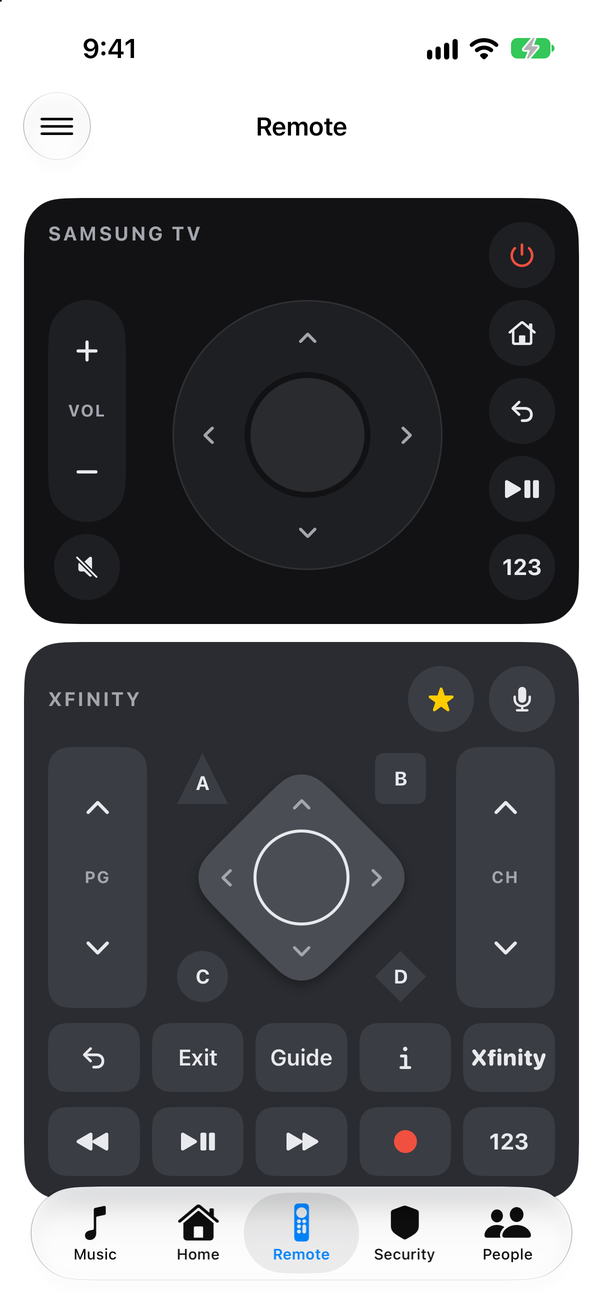
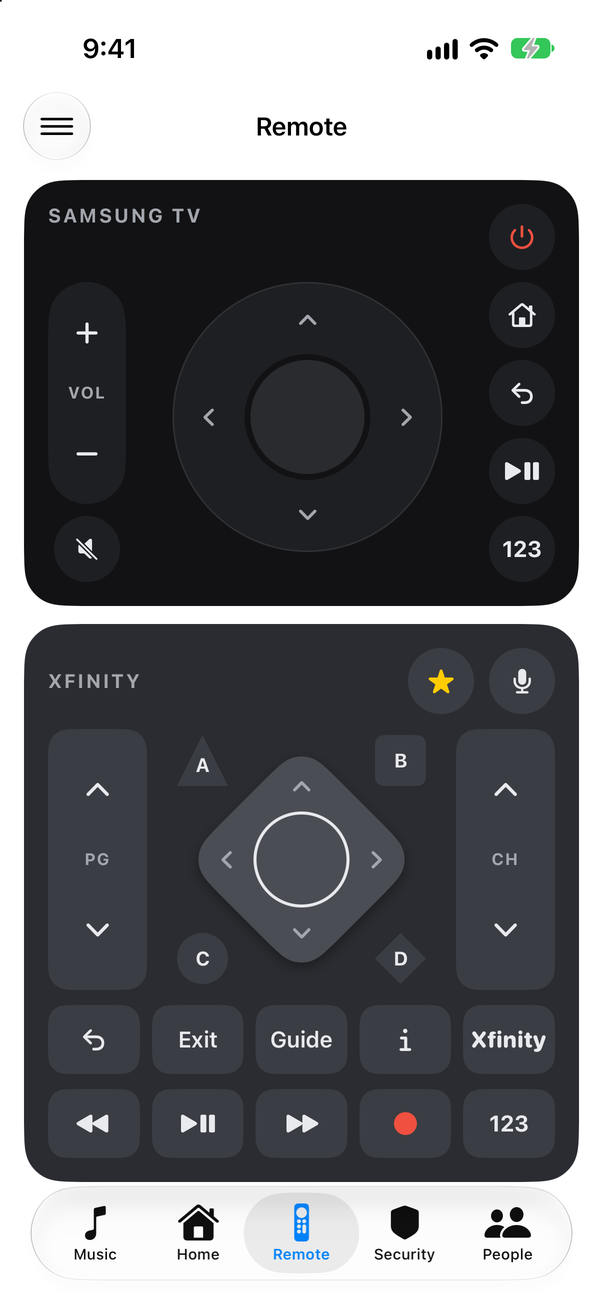
Less space above a page's first card, so the remote fits

diff --git a/Hassonic/DashboardView.swift b/Hassonic/DashboardView.swift
@@ -39,7 +39,9 @@ struct DashboardPageView: View {
                     DashboardSectionView(section: section)
                 }
             }
-            .padding(.vertical)
+            // Little above, so a tall card like the remote clears the tab bar.
+            .padding(.top, 4)
+            .padding(.bottom)
         }
         .reloadsConfigurationOnPull()
         .navigationTitle(page.title)
